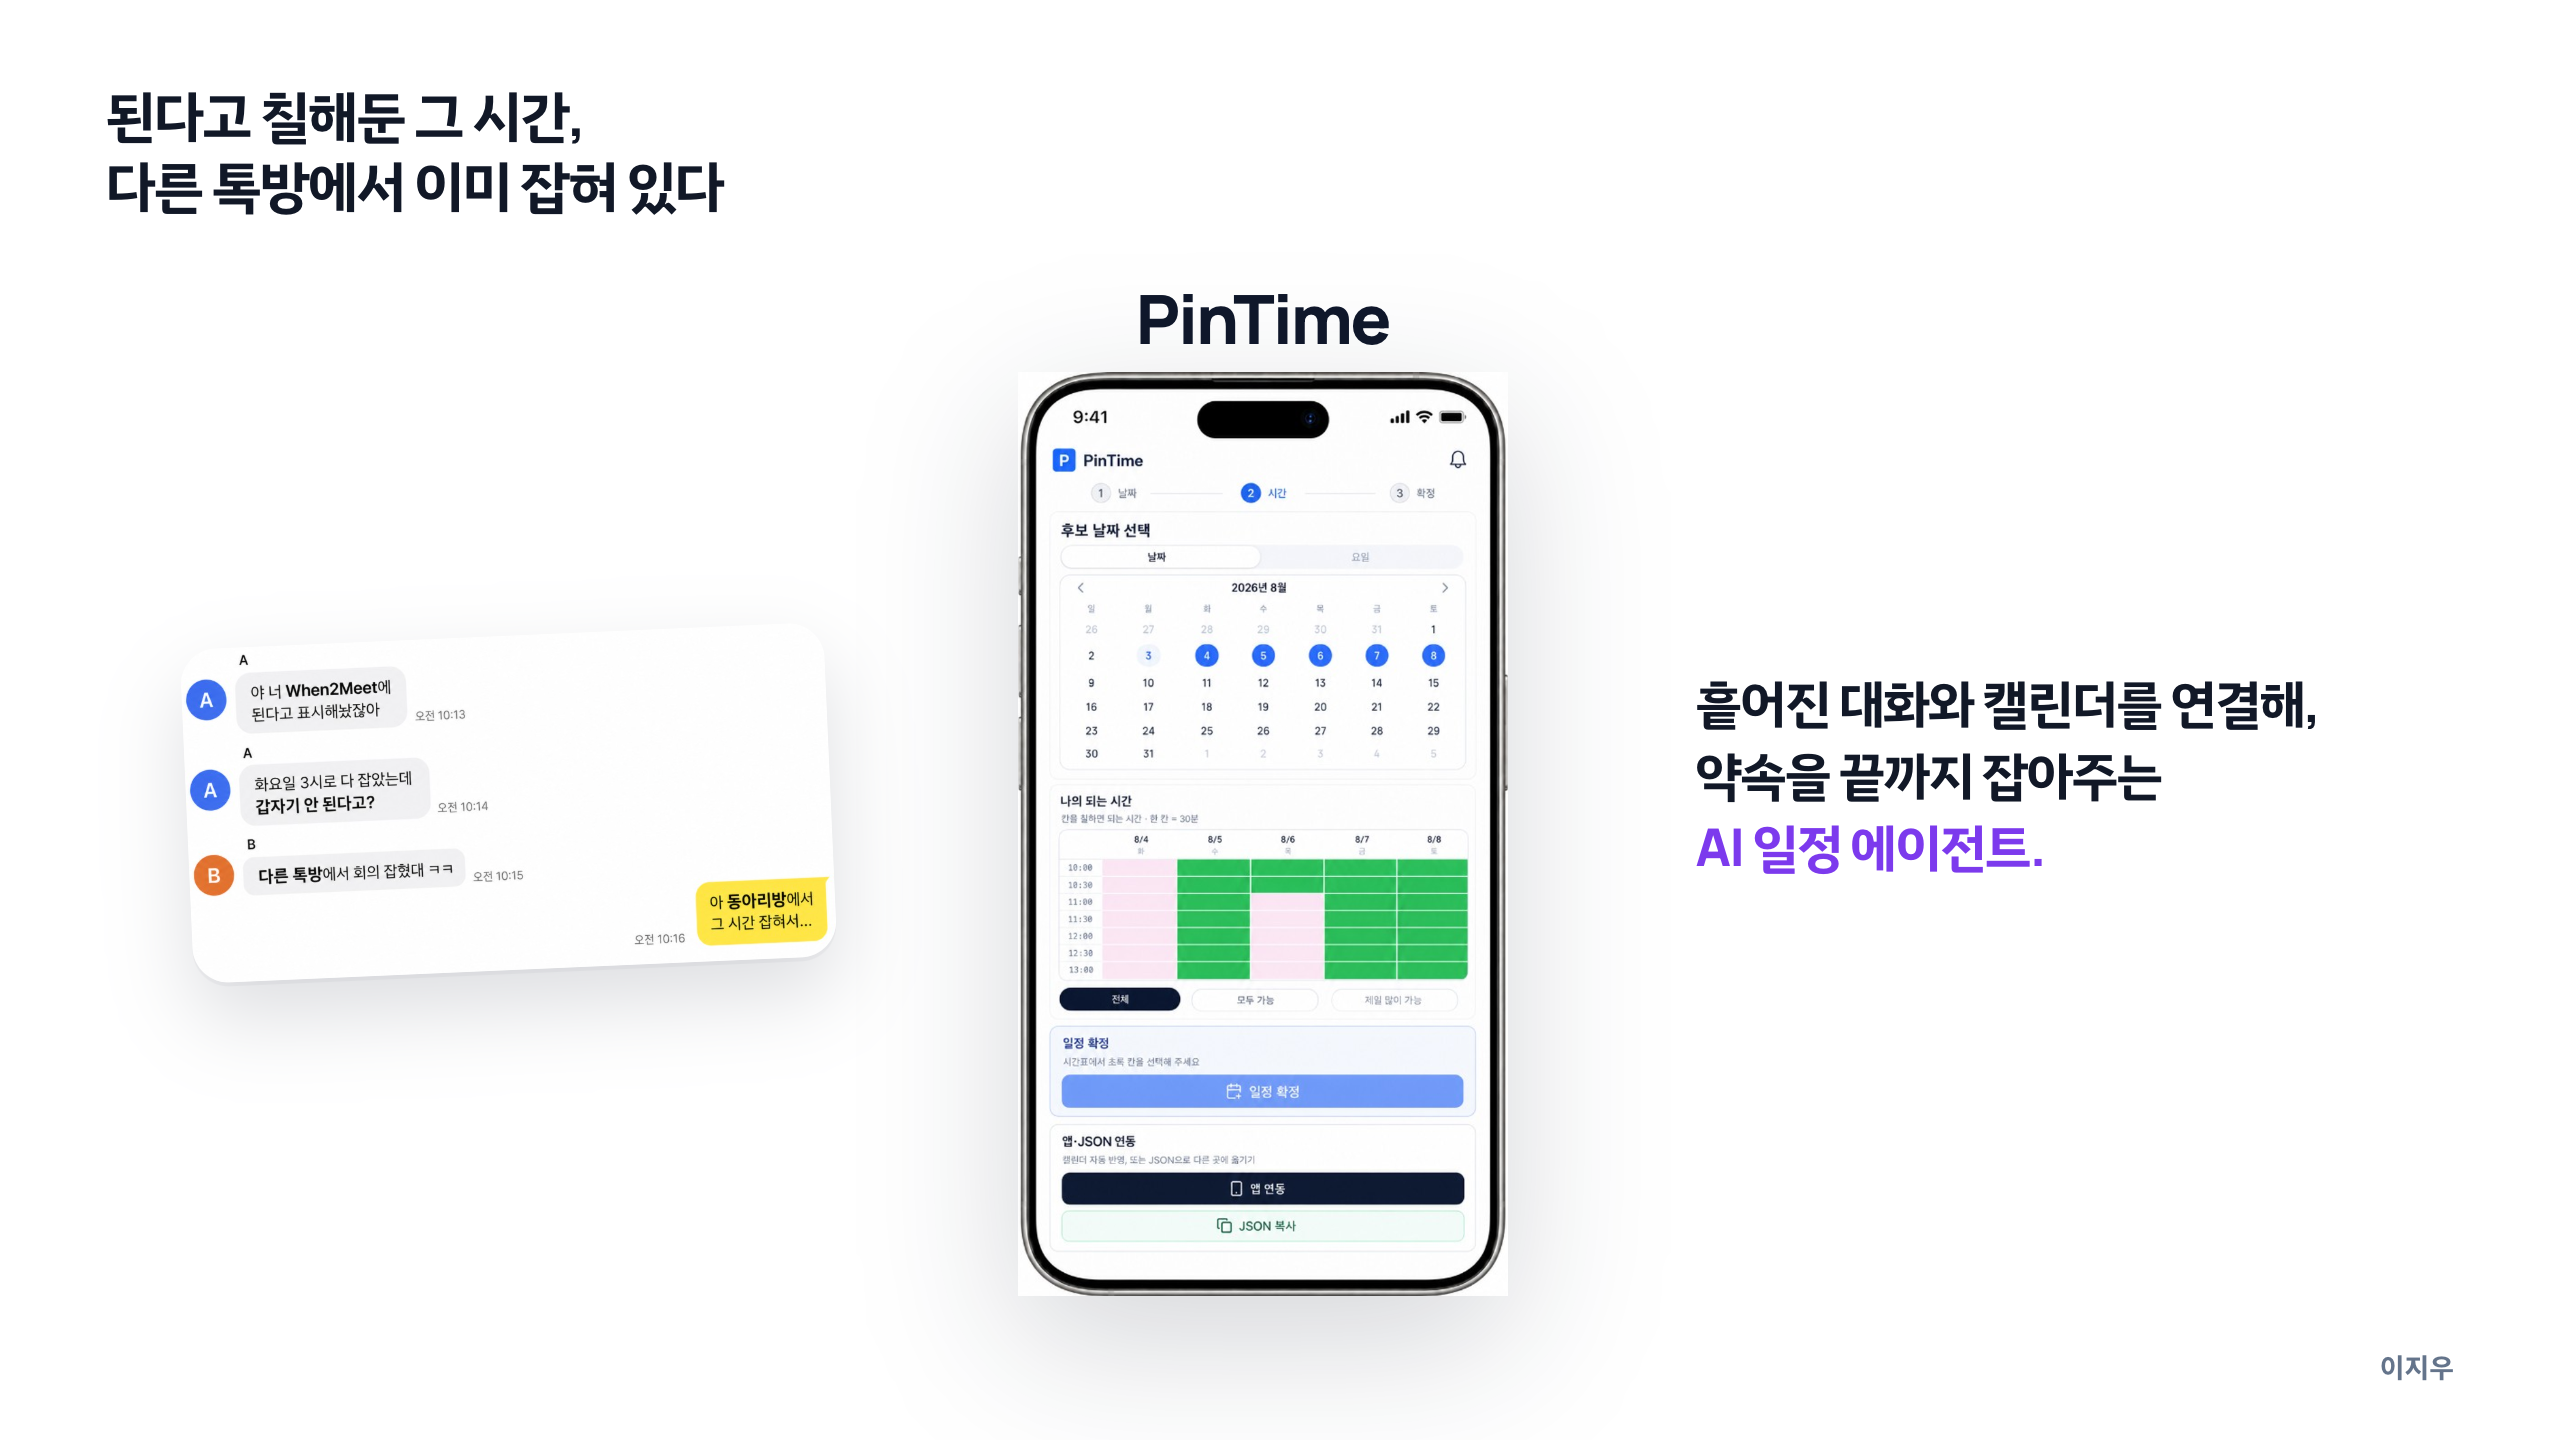
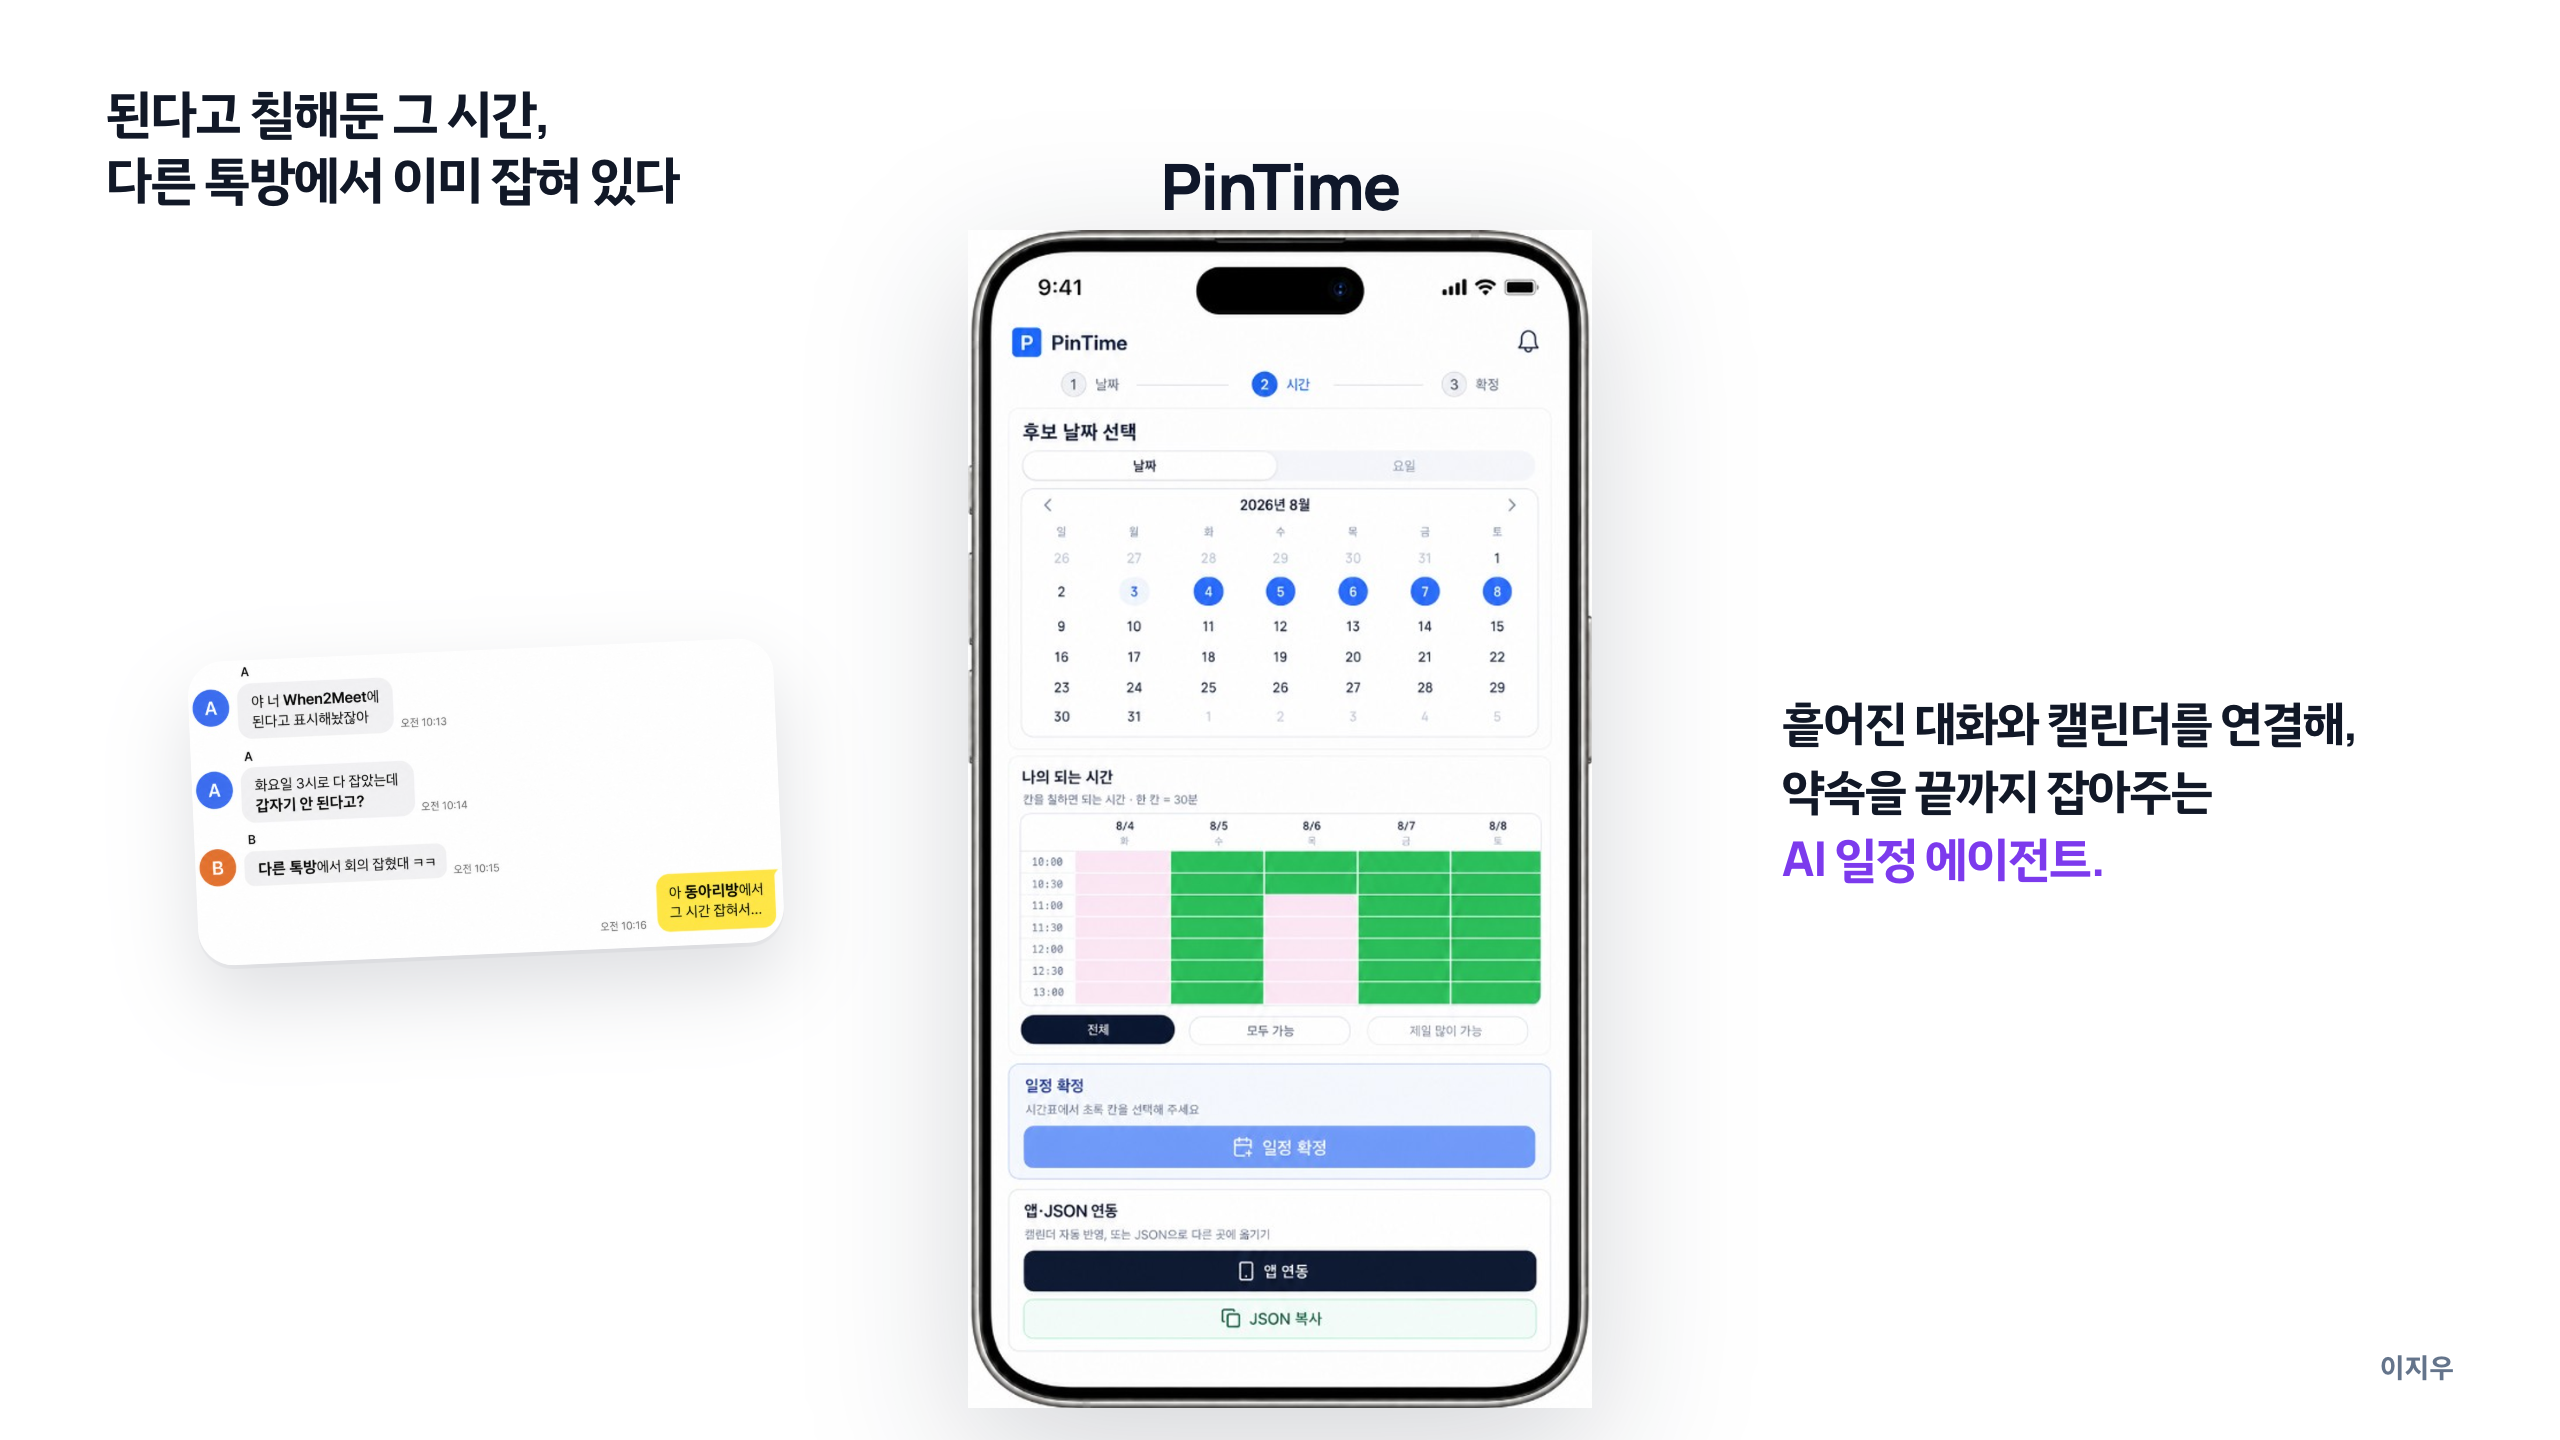
Enlarge cover phone mockup.

diff --git a/public/pitch.html b/public/pitch.html
@@ -1058,7 +1058,7 @@
         margin: 0;
         max-width: 6.2in;
         font-family: Manrope, 'IBM Plex Sans KR', sans-serif;
-        font-size: 28px;
+        font-size: 26px;
         font-weight: 800;
         letter-spacing: -0.03em;
         line-height: 1.25;
@@ -1067,18 +1067,18 @@
 
       .cover-stage {
         display: grid;
-        grid-template-columns: 1.05fr 1.15fr 1.1fr;
+        grid-template-columns: 0.95fr 1.35fr 0.95fr;
         align-items: center;
-        gap: 18px;
+        gap: 12px;
         min-height: 0;
-        margin-top: 10px;
+        margin-top: 6px;
       }
 
       .cover-chat {
         justify-self: end;
         width: 100%;
-        max-width: 3.35in;
-        transform: rotate(-2.5deg) translateY(6px);
+        max-width: 3.05in;
+        transform: rotate(-2.5deg) translateY(10px);
         border-radius: 18px;
         overflow: hidden;
         box-shadow:
@@ -1099,20 +1099,20 @@
         align-items: center;
         justify-content: center;
         min-height: 0;
-        gap: 10px;
+        gap: 6px;
       }
 
       .cover-wordmark {
         font-family: Manrope, sans-serif;
         font-weight: 800;
-        font-size: 34px;
+        font-size: 32px;
         letter-spacing: -0.03em;
         color: #0f172a;
         line-height: 1;
       }
 
       .cover-phone {
-        width: min(100%, 2.55in);
+        width: min(100%, 3.25in);
         filter: drop-shadow(0 22px 36px rgba(15, 23, 42, 0.18));
       }
 
@@ -1124,14 +1124,14 @@
 
       .cover-tagline {
         margin: 0;
-        max-width: 3.6in;
+        max-width: 3.4in;
         font-family: Manrope, 'IBM Plex Sans KR', sans-serif;
-        font-size: 26px;
+        font-size: 24px;
         font-weight: 800;
         letter-spacing: -0.03em;
         line-height: 1.4;
         color: #111827;
-        transform: translateY(-8px);
+        transform: translateY(4px);
       }
 
       .cover-tagline .ai {
